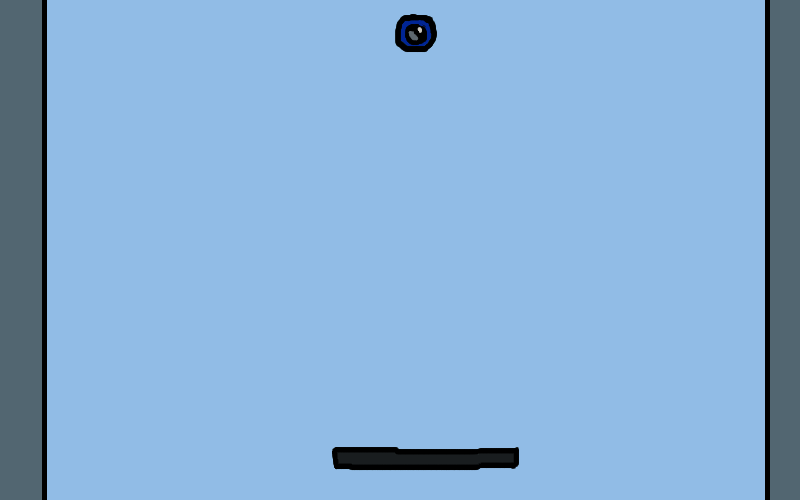
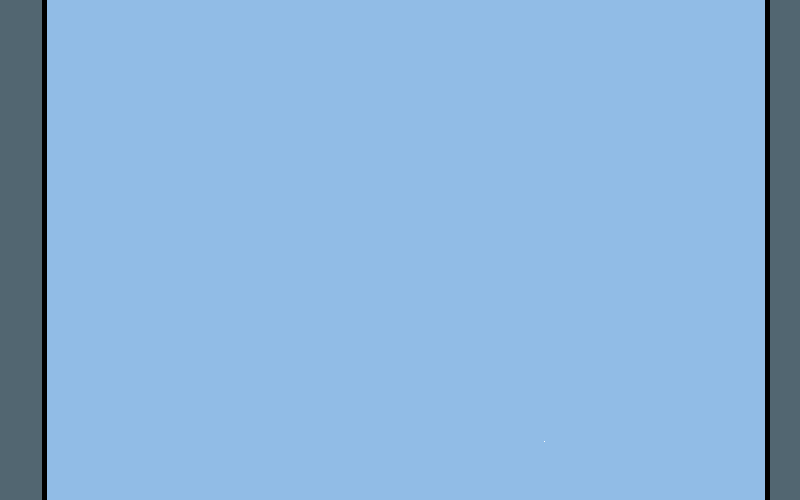
resizable and instructions added

Changed region(s): [[0.4062, 0.87, 0.6562, 0.96], [0.4688, 0.03, 0.5625, 0.12]]

diff --git a/sketch.js b/sketch.js
@@ -27,6 +27,8 @@ let myFont;
 let glow;
 let selectSound;
 let checkMark;
+let cnvHeight;
+let cnvWidth;
 
 //Atm screen
 let ATMsays;
@@ -69,7 +71,21 @@ function preload() {
 }
 
 function setup() {
-    createCanvas(800, 500);
+    let yourInputHere = createP('What ATM hears: ');
+//    yourInputHere.position(20, 10);
+    textP = createP('Your speech input will show up here.');
+//    textP.position(150, 10);
+    
+    cnvWidth = windowWidth;
+    cnvHeight = 5 / 8 * windowWidth;
+    if (windowWidth >= 800) {
+        cnvWidth = windowWidth;
+        cnvHeight = 5 / 8 * windowWidth;
+    } else {
+        cnvWidth = 800;
+        cnvHeight = 500;
+    }
+    createCanvas(cnvWidth, cnvHeight);
     pixelDensity(1);
     
     video = createCapture(VIDEO);
@@ -87,11 +103,6 @@ function setup() {
     speechRec.onResult = gotSpeech;
     speechRec.onEnd = restartSpeech;
     
-    let yourInputHere = createP('What ATM hears: ');
-    yourInputHere.position(20, 520);
-    textP = createP('Your speech input will show up here.');
-    textP.position(150, 520);
-    
     //intial variables
     fade = 0;
     btnClr = color(0, 0, 255);
@@ -99,6 +110,20 @@ function setup() {
     //for testing
 //    ATMsays = 'How much cash you want?'
 //    currentOptions = getCashAmt;
+}
+
+function windowResized() {
+    cnvWidth = windowWidth;
+    cnvHeight = 5 / 8 * windowWidth;
+    if (windowWidth >= 800) {
+        cnvWidth = windowWidth;
+        cnvHeight = 5 / 8 * windowWidth;
+    } else {
+        cnvWidth = 800;
+        cnvHeight = 500;
+    }
+    resizeCanvas(cnvWidth, cnvHeight);
+    
 }
 
 function restartSpeech() {
@@ -149,7 +174,6 @@ function draw() {
     } else {
         textP.html(speechProxy);
     }
-    
 
     //scene change
     if (ATMstart === false) {
@@ -175,7 +199,7 @@ function draw() {
         textAlign(LEFT, CENTER);
         
         for (let n = 0; n < pin.length; n++) {
-            text(pin[n], 440 + 60*n, 120);
+            text(pin[n], width/2+40 + 60*n, 120);
         }
     }
     
@@ -190,7 +214,7 @@ function draw() {
             push();
             translate(-20*cash.length, 0);
             fill(0);
-            text(cash[n], 660 + 20*n, 120);
+            text(cash[n], width/2+260 + 20*n, 120);
             pop();
         }
     }
@@ -200,7 +224,7 @@ function draw() {
         noStroke();
         textSize(18);
         textAlign(LEFT, CENTER);
-        text('MAX', 440, 120);
+        text('MAX', width/2+40, 120);
     }
 }
 
@@ -250,8 +274,9 @@ function showStreetCorner() {
     textSize(9);
     text('Uses webcam and voice input.', 60, 395, 280, 100);
     //text('Read out the text in the button to start.', 60, 385, 260, 100);
-    textSize(14);
-    text('Say or click-->', 60, 440, 300, 100)
+    fill(0, 255, 0);
+    textSize(12);
+    text('To begin, say GO or click -->', 60, 435, 220, 100)
     
     //interact button
     if (mouseX > 280 && mouseX < 355 && mouseY > 425 && mouseY < 475) {
@@ -304,10 +329,14 @@ function showATMscreen() {
     image(atmScreen, 0, 0, width, height);
     
     //rec
+    fill(0);
+    ellipse(width/2, 33, 50);
+    fill(120);
+    ellipse(width/2, 33, 20);
     fill(255, 0, 0);
     stroke(0);
     strokeWeight(1)
-    ellipse(width/2-15, 33, 10);
+    ellipse(width/2, 50, 10);
     
     //animate cash output
     cashPrinter();
@@ -316,15 +345,15 @@ function showATMscreen() {
     fill(0, 200, 255);
     stroke(0);
     strokeWeight(3);
-    rect(100, 75, 600, 350, 10);
+    rect(width/2 - 300, 75, 600, 350, 10);
     noFill();
     strokeWeight(2);
-    rect(90, 65, 620, 370, 10);
+    rect(width/2 - 310, 65, 620, 370, 10);
     
     //draw ATM face
     noStroke();
     fill(0, 255, 100);
-    rect(150, 90, 200, 130, 30);
+    rect(width/2 - 250, 90, 200, 130, 30);
     
     drawEmoji();
     
@@ -355,8 +384,8 @@ function showATMscreen() {
     //speechBubble
     fill(255);
     noStroke();
-    rect(115, 230, 265, 180, 10);
-    triangle(140, 230, 150, 230, 160, 200);
+    rect(width/2 - 285, 230, 265, 180, 10);
+    triangle(width/2 - 260, 230, width/2 - 250, 230, width/2 - 240, 200);
 }
 
 function cashPrinter() {
@@ -364,20 +393,20 @@ function cashPrinter() {
     fill(40);
     stroke(0);
     strokeWeight(3)
-    rect(250, 445, 300, 25, 20)
+    rect(width/2 - 150, 445, 300, 25, 20)
     
     if (printingCash) {
         //console.log('outputting cash...');
         if (cashOutput > 0) {
             fill(0, 101, 68)
             strokeWeight(2);
-            rect(350, printY, 100, 150);
+            rect(width/2-50, printY, 100, 150);
             fill(0, 101, 68)
             strokeWeight(1);
-            rect(360, printY+15, 80, 120);
+            rect(width/2 - 40, printY+15, 80, 120);
             fill(0, 255, 0);
             textSize(50);
-            text('$', 380, printY+75);
+            text('$', width/2 - 20, printY+75);
             printY += 3;
             console.log(cashOutput)
             if (printY >= height) {
@@ -388,10 +417,10 @@ function cashPrinter() {
     }
     fill(145, 188, 230);
     noStroke();
-    rect(200,427,400,15);
+    rect(width/2 - 200,427,400,15);
     fill(0);
     strokeWeight(3)
-    rect(240, 440, 320, 18, 30, 30, 0, 0)
+    rect(width/2 - 160, 440, 320, 18, 30, 30, 0, 0)
 }
 
 function drawEmoji() {
@@ -403,15 +432,15 @@ function drawEmoji() {
     textFont(myFont);
     textAlign(LEFT, CENTER);
     textSize(45);
-    text(asciEmoji, 200, emojiY);
+    text(asciEmoji, width/2 - 200, emojiY);
 }
 
 function initializeATM() {
-    let thisScreen = new ScreenState(ATMsays, 130, 250, 260, 180, currentOptions);
+    let thisScreen = new ScreenState(ATMsays, width/2 - 270, 250, 260, 180, currentOptions);
     thisScreen.display();
     
     if (cActive) {
-        let bye = new UserSelection('Goodbye', 575, 350, 100, 40, goBackToStreet);
+        let bye = new UserSelection('Goodbye', width/2 + 175, 350, 100, 40, goBackToStreet);
         bye.display();
     }
 }
@@ -425,9 +454,9 @@ let goBackToStreet = function() {
 
 let faceScan = function() {
     fill(0);
-    rect(400, 90, 270, 195, 10);
+    rect(width/2, 90, 270, 195, 10);
     tint(200, 100, 255, 255);
-    image(video, 410, 100, 250, 175);
+    image(video, width/2 + 10, 100, 250, 175);
     noTint();
     
     if (!cActive) {
@@ -436,7 +465,7 @@ let faceScan = function() {
         scanY = map(sin(scanner), -1, 1, 100, 275);
         stroke(0, 255, 255);
         strokeWeight(2);
-        line(410, scanY, 660, scanY);
+        line(width/2 +10, scanY, width/2 + 250, scanY);
         //timer
         noStroke();
         if (millis() - startCount >= 1000) {
@@ -445,14 +474,21 @@ let faceScan = function() {
         }
         textSize(50);
         fill(255, 255, 100);
-        text(count, 515, 170);
+        text(count, width/2 + 115, 170);
         setTimeout(cursorActivate, 5000);
 //        console.log('scanning...')
     } else {
-        ATMsays = 'Scan complete! You can move the cursor with your head or say aloud the exact text in a button to select it.';
+        //instructions
+        textSize(10);
+        fill(0,0,255);
+        text('How to select:', width/2 -270, 250, 175, 100);
+        fill(0);
+        text('1. Read out the exact text of the button, OR', width/2 -270, 275, 250, 200);
+        text('2. Move the cursor with your head to hover over your choice and say SELECT or CLICK.', width/2 -270, 320, 250, 200)
+        ATMsays = '';
         image(checkMark, 490, 150, 100, 100);
         noStroke();
-        let next = new UserSelection('Go', 575, 300, 100, 40, interact);
+        let next = new UserSelection('Go', width/2 + 175, 300, 100, 40, interact);
         next.display();
     }
 }
@@ -471,9 +507,9 @@ function interact() {
 
 let wantCash = function() {
     //generate selections
-    let optYes = new UserSelection('Yes', 400, 110, 275, 60, enterPin);
-    let optNo = new UserSelection('No', 400, 185, 275, 60, whyNot);
-    let optMaybe = new UserSelection('Maybe', 400, 260, 275, 60, whyNot);
+    let optYes = new UserSelection('Yes', width/2, 110, 275, 60, enterPin);
+    let optNo = new UserSelection('No', width/2, 185, 275, 60, whyNot);
+    let optMaybe = new UserSelection('Maybe', width/2, 260, 275, 60, whyNot);
     
     optYes.display();
     optNo.display();
@@ -487,9 +523,9 @@ let whyNot = function() {
 }
 
 let whyNotOpts = function() {
-    let optSatisfy = new UserSelection('Because money cannot satisfy me', 400, 110, 275, 60, wantAdvice);
-    let optTalk = new UserSelection('Just wanted to talk', 400, 185, 275, 60, letsTalk);
-    let optCash = new UserSelection('Nevermind give me cash', 400, 260, 275, 60, enterPin);
+    let optSatisfy = new UserSelection('Because money cannot satisfy me', width/2, 110, 275, 60, wantAdvice);
+    let optTalk = new UserSelection('Just wanted to talk', width/2, 185, 275, 60, letsTalk);
+    let optCash = new UserSelection('Nevermind give me cash', width/2, 260, 275, 60, enterPin);
     optSatisfy.display();
     optTalk.display();
     optCash.display();
@@ -502,8 +538,8 @@ let wantAdvice = function() {
 }
 
 let toAdviceOrNotToAdvice = function() {
-    let optRefuse = new UserSelection('No just give me cash', 400, 110, 275, 60, enterPin);
-    let optAccept = new UserSelection('Okay give me advice', 400, 185, 275, 60, getAdvice);
+    let optRefuse = new UserSelection('No just give me cash', width/2, 110, 275, 60, enterPin);
+    let optAccept = new UserSelection('Okay give me advice', width/2, 185, 275, 60, getAdvice);
     optRefuse.display();
     optAccept.display();
 }
@@ -515,8 +551,8 @@ let letsTalk = function() {
 }
 
 let letsTalkOpts = function() {
-    let optAdvice = new UserSelection('Give me cash', 400, 110, 275, 60, enterPin);
-    let optTalk = new UserSelection('Give me advice', 400, 185, 275, 60, getAdvice);
+    let optAdvice = new UserSelection('Give me cash', width/2, 110, 275, 60, enterPin);
+    let optTalk = new UserSelection('Give me advice', width/2, 185, 275, 60, getAdvice);
     optAdvice.display();
     optTalk.display();
 }
@@ -537,8 +573,8 @@ function printAdvice(advice) {
 }
 
 let thatHelps = function() {
-    let optHelps = new UserSelection('Okay give me cash', 400, 110, 275, 60, enterPin);
-    let optMore = new UserSelection('Give me more advice', 400, 185, 275, 60, getAdvice);
+    let optHelps = new UserSelection('Okay give me cash', width/2, 110, 275, 60, enterPin);
+    let optMore = new UserSelection('Give me more advice', width/2, 185, 275, 60, getAdvice);
     optHelps.display();
     optMore.display();
 }
@@ -555,29 +591,29 @@ let numPad = function() {
     fill(255);
     stroke(0, 0, 255);
     strokeWeight(2);
-    rect(420, 90, 250, 60, 10);
+    rect(width/2+20, 90, 250, 60, 10);
     
     if (isPin === true) {
         fill(0);
         noStroke();
         textSize(30);
         textAlign(LEFT, CENTER);
-        text('_ _ _ _', 440, 125);
+        text('_ _ _ _', width/2+40, 125);
     }
     
     //numbers
     for (let r = 0; r < 3; r++) {
         for (let i = 0; i < 3; i++) {
             let numCount = (i + 1) + (3 * r);
-            let num = new UserSelection('' + numCount, 510 + 55*i, 160 + 55*r, 50, 50, inputNum);
+            let num = new UserSelection('' + numCount, width/2 + 110 + 55*i, 160 + 55*r, 50, 50, inputNum);
             num.display();
         }
     }
-    let num0 = new UserSelection('0', 455, 160, 50, 50, inputNum);
+    let num0 = new UserSelection('0', width/2 +55, 160, 50, 50, inputNum);
     num0.display();
-    let enter = new UserSelection('Go', 425, 215, 80, 50, enterNum);
+    let enter = new UserSelection('Go', width/2+25, 215, 80, 50, enterNum);
     enter.display();
-    let cancel = new UserSelection('Cancel', 415, 270, 90, 50, cancelNum);
+    let cancel = new UserSelection('Cancel', width/2+15, 270, 90, 50, cancelNum);
     cancel.display();
     
     //cash printer conditions
@@ -658,8 +694,8 @@ let cancelNum = function() {
 
 let userOpts = function() {
     printingCash = false;
-    let optGiveCash = new UserSelection('Give me cash', 400, 110, 275, 60, getCashAmt);
-    let optMyBalance = new UserSelection('How much cash do I have', 400, 185, 275, 60, notEnough);
+    let optGiveCash = new UserSelection('Give me cash', width/2, 110, 275, 60, getCashAmt);
+    let optMyBalance = new UserSelection('How much cash do I have', width/2, 185, 275, 60, notEnough);
     //let optGiveAdvice = new UserSelection('Give me advice', 400, 260, 275, 60, getAdvice);
     optGiveCash.display();
     optMyBalance.display();
@@ -674,8 +710,8 @@ let notEnough = function() {
 }
 
 let loveAndHappiness = function() {
-    let optOkCash = new UserSelection('Whatever just give me cash', 400, 110, 275, 60, getCashAmt);
-    let optFindLove = new UserSelection('Will I ever find love and happiness', 400, 185, 275, 60, letItGo);
+    let optOkCash = new UserSelection('Whatever just give me cash', width/2, 110, 275, 60, getCashAmt);
+    let optFindLove = new UserSelection('Will I ever find love and happiness', width/2, 185, 275, 60, letItGo);
     optOkCash.display();
     optFindLove.display();
 }
@@ -687,8 +723,8 @@ let letItGo = function() {
 }
 
 let thanks = function() {
-    let optThanks = new UserSelection('Thank you ATM I feel better now', 400, 110, 275, 60, noProblem);
-    let optReady = new UserSelection('I am ready to let it go now give me cash', 400, 185, 275, 60, getCashAmt);
+    let optThanks = new UserSelection('Thank you ATM I feel better now', width/2, 110, 275, 60, noProblem);
+    let optReady = new UserSelection('I am ready to let it go now give me cash', width/2, 185, 275, 60, getCashAmt);
     optThanks.display();
     optReady.display();
 }
